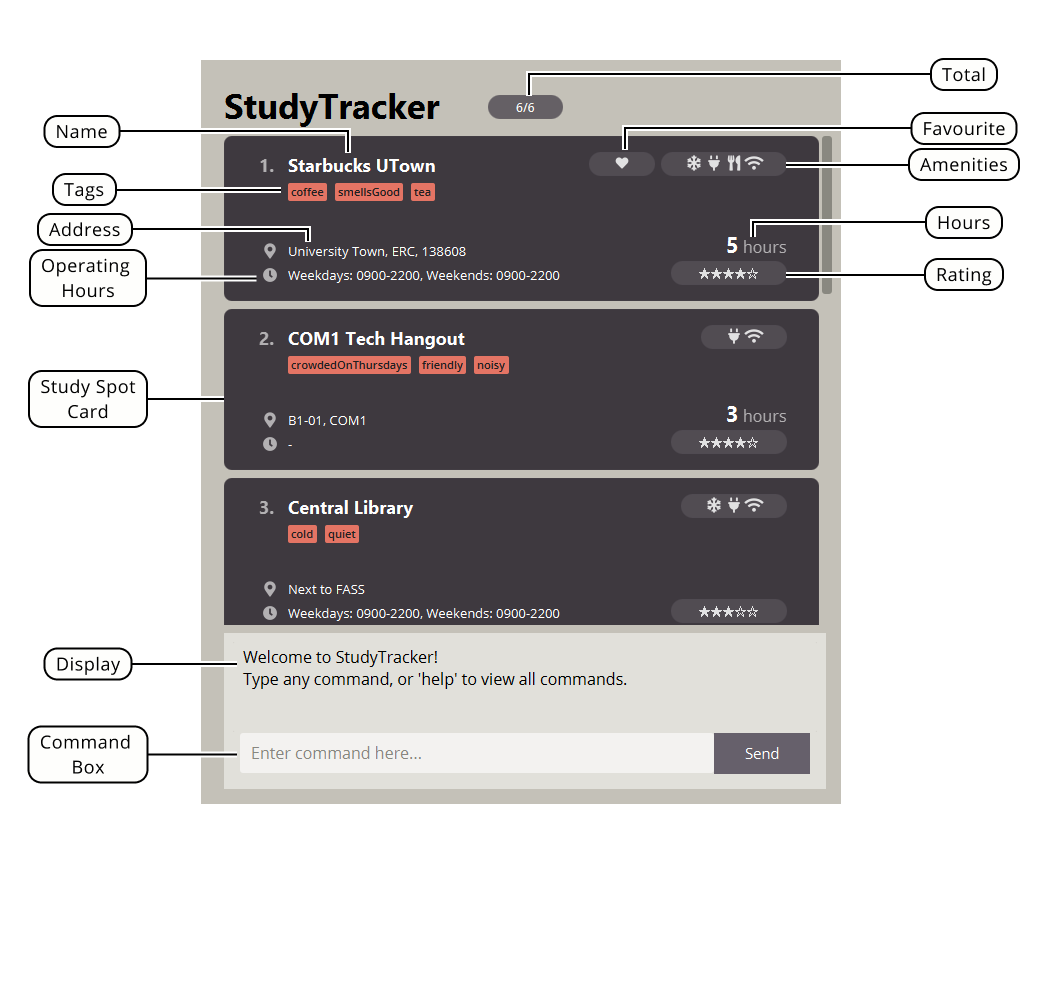
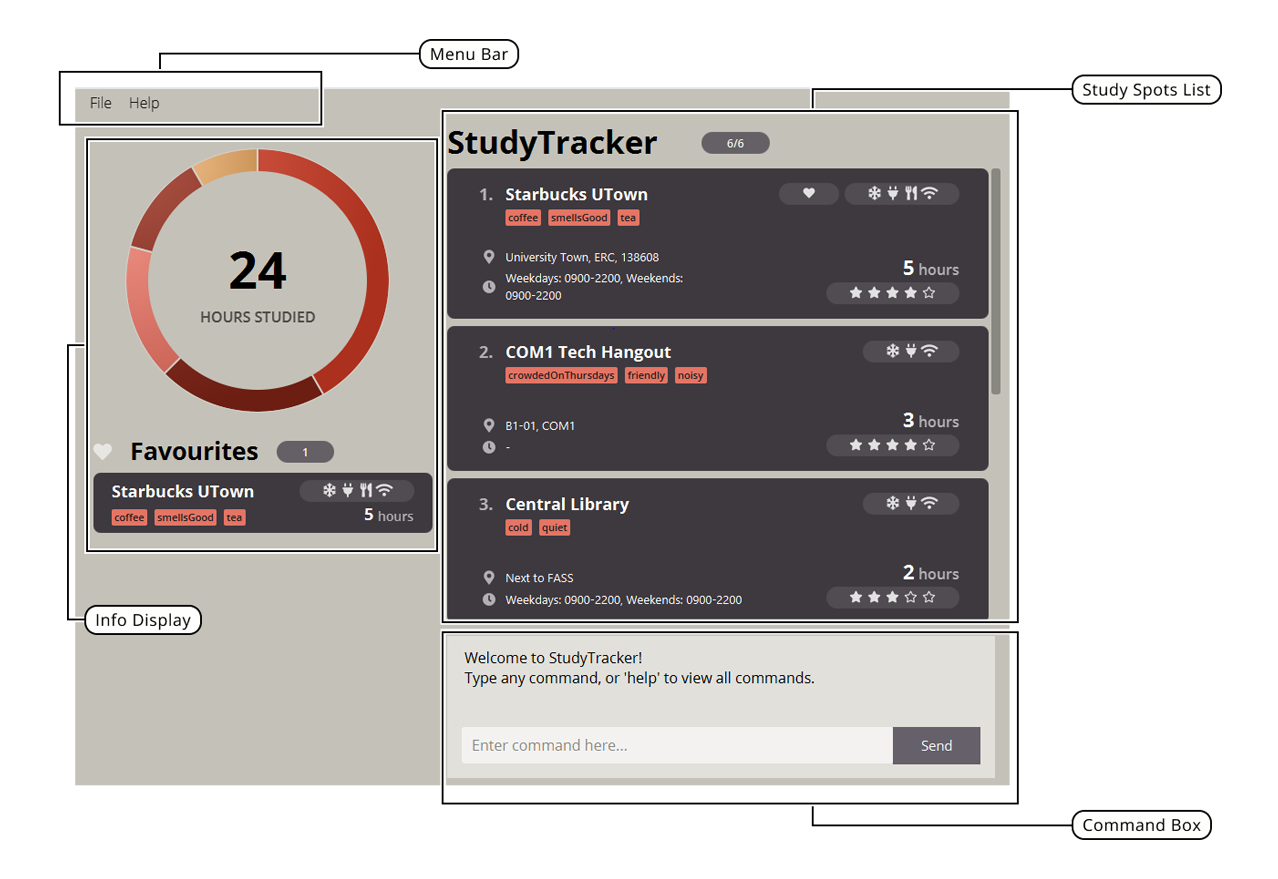
Update pictures to match latest features

diff --git a/docs/UserGuide.md b/docs/UserGuide.md
@@ -12,7 +12,7 @@ We aim to **maximise students' productivity** by **making it easy to find the be
 
 Overview of main features:
 - **Make informed decisions** of where to study —  every study spot includes details about amenities like sockets, aircon, and crowd level, and more!
-- **Data-driven statistics** to **track time spent studying** ensures that you know where to go to be productive
+- **Data-driven statistics** to **track time spent studying** ensures you know where to go to be productive
 - Made a mistake? Found out something new? **Editing details is quick and simple!**
 - **Powerful customization** with user-defined aliases and custom themes!
 - **Built for cross-platform use** with JavaFX. Bring your StudyTracker data with you to any Windows, Mac, or Linux device!
@@ -48,7 +48,8 @@ Let's explore how we **add a new study spot** and **track our study time** with 
 1. Copy the file to the folder you want to use as the _home folder_ for your StudyTracker.
 
 1. Double-click the file to start the app. The GUI similar to the one below should appear in a few seconds. Note how the app contains some sample data.<br>
-   ![Ui](images/Ui.png)
+
+    <img src="images/Ui.png" alt="Default Ui" width="550"/>
 
 1. Type the command in the command box and press Enter to execute it. e.g. typing **`help`** and pressing Enter will open the help window.<br>
 
@@ -57,13 +58,14 @@ Let's explore how we **add a new study spot** and **track our study time** with 
    1. **`list`** : Lists all study spots.
     Study spots are shown in cards on the right panel of the program.
 
-   1. **`add`** `n/COM1 r/5 m/aircon` : **Adds a study location** named `COM1`, with a rating of 5 and 'aircon' amenity to the StudyTracker.
-    You'll see it if you scroll down the list of study locations!
+   1. **`add`** `n/FASS Benches r/5 m/aircon` : **Adds a study location** named `FASS Benches`, with a rating of 5 and 'aircon' amenity to the StudyTracker.
+   You'll see it if you scroll down the list of study locations!
 
-   1. **`log`** `n/COM1 h/3` : **Logs 3 hours of study time** at `COM1`.
-    The card will update with the new study hours. 
+   1. **`log`** `n/FASS Benches hr/3` : **Logs 3 hours of study time** at `FASS Benches`.
+    The card will update with the new study hours. Notice how the pie chart on the left of the GUI updates with the hours spent!
+    Try hovering over the pie chart to find your newly-added study spot!
 
-   1. **`exit`** : Exits the app.
+   2. **`exit`** : Exits the app.
 
 1. Congratulations! You've just added a new study spot, and logged your study time!
 You're on the right track to productivity!
@@ -106,13 +108,9 @@ Here is how to read the command format:
 #### Command Structure
 Commands use a multipart structure that must be specified in this order:
 1. **Command word** which may be user-created aliases (detailed further in [Aliases](#setting-command-aliases--alias-unalias)). <br>
-2. **Parameters** and **Flags**
+2. **Parameters** and **Flags**. A command may have more than one flag and/or parameters.
 
 <img src="images/commandStructure.png" alt="commandStructure" height="300"/>
-
-```
- <COMMAND> [parameters and flags]
- ```
 
 #### Flags
 
@@ -170,7 +168,37 @@ This section introduces the Graphical User Interface (GUI) of StudyTracker.
 
 ![Gui annotated](images/GuiAnnotated.png)
 
-On the right side of the interface, you can find the **Study Spot List** and **Command Box**.
+The top of the interface contains the **Menu Bar**. Clicking on `File` or `Help` will open up the [Settings menu](#managing-themes) and the [Help window](#viewing-help--help).
+
+On the left side of the interface, you can find the [**Info Display**](#info-display).
+
+On the right side of the interface, you can find the [**Study Spot List**](#study-spot-list) and [**Command Box**](#study-spot-list).
+
+### Info Display
+
+The **Info Display** contains the **Pie Chart** and **Favourites List**.
+
+![Gui annotated](images/GuiInfoDisplayAnnotated.png)
+
+The **Hours Studied Pie Chart** displays statistics of time spent studying at the *top five most frequented* study spots.
+
+* Moving your cursor over any segment of the pie chart will show a `Study Spot Caption` with details of the corresponding study spot
+* `Total hours studied` will show the total number of hours studied over all study spots
+
+The **Favourites List** contains **Cards** representing all [**favourited**](#adding-a-study-spot-to-favourites-fav) study spots in StudyTracker.
+The `Total` tag at the top shows total number of favourited study spots in StudyTracker.
+
+* `Name` — name of study spot
+* `Tags` — user-defined tags for the study spot
+* `Amenities` — the icons represent the amenities present in study spot.
+From left to right, the amenities are **aircon, charger, food, wifi**.
+* `Hours studied` — total number of hours studied at study spot
+
+
+### Study Spot List
+
+
+![Gui annotated](images/GuiStudySpotListAnnotated.png)
 
 The **Study Spot List** contains **Cards** representing every study spot in StudyTracker.
 The `Total` tag at the top shows current visible study spots/total number of study spots in StudyTracker.
@@ -185,7 +213,7 @@ From left to right, the amenities are **aircon, charger, food, wifi**.
 * `Hours` — total number of hours studied at study spot
 * `Rating` — user-defined rating for the study spot
 
-The **Command Box** is where to enter commands in StudyTracker.
+The **Command Box** is where to enter [**commands**](#how-to-read-commands-in-studytracker) in StudyTracker.
 
 * `Command Box` — type in your commands here
 * `Display` — results of commands and error messages are shown here.
@@ -376,9 +404,9 @@ find library
 
 ### Logging study hours: `log`
 
-After studying at a certain StudySpot, you can log how many hours you have studied at this location. You can also reset
-the value to 0, or hard set it to the value of your choice by using the `-r` and `-o` flags respectively, as shown
-below .
+After studying at a certain StudySpot, you can log how many hours you have studied at this location.
+There are also various flags you can use to reset or override hours to the value of your choice by using the `-r` and `-o` flags respectively, as shown
+below:
 
 **Format:** `log n/NAME* hr/NUM_OF_HOURS*` to log additional hours at the study spot
 
@@ -386,12 +414,18 @@ below .
 
 **Format** `log -r n/NAME*` to reset the studied hours at the study spot to 0
 
-<img src="images/log_hours.png" alt="log hours" height="700"/>
+**Format** `log -r` to reset the studied hours at **all** study spots
 
 <div markdown="span" class="alert alert-primary">:information_source: **Note:**
-The flag `-o` stands for override, to override the studied hours with what is input
-The flag `-r` stands for reset, which resets the value to 0
+The flag `-o` stands for override, which overrides the studied hours with the provided value <br>
+The flag `-r` stands for reset, which resets the hours to 0
 </div>
+
+<figure>
+<img src="images/log_hours.png" alt="log hours" height="500"/>
+  <figcaption>Logging 5 hours to 'Starbucks UTown' with the command `log n/starbucks utown hr/2` would update the study spot card, and also the pie chart on the info display panel of the GUI. </figcaption>
+</figure>
+
 
 **Example:**
 ```
@@ -403,6 +437,9 @@ Changed hours to 5 at Starbucks!
 
 log -r n/Starbucks
 Reset hours at Starbucks!
+
+log -r
+Reset hours for all study spots!
 ```
 
 ### Setting Command Aliases
@@ -428,17 +465,17 @@ You can chain aliases to make more powerful commands! <br> <br>
 **Example:** <br>
 
 ```
-alias al/Rate5 cmd/edit r/5 spot/
+alias al/LogCLB cmd/log n/Central Library hr/
 ```
 <br>
 ```
-Added alias Rate5: [edit r/5 spot/]
+Added alias LogCLB: [log n/Central Library hr/]
 ```
 <br>
-will set alias `Rate5` to expand to the command `edit r/5 spot/`.
+will set alias `LogCLB` to expand to the command `log n/Central Library hr/`.
 <br><br>
 
-Running `Rate5 Bishan Library` would then result in `edit r/5 spot/Bishan Library`!
+Running `LogCLB 3` would then result in `log n/Central Library hr/3`, allowing you to log a variable number of study hours to 'Central Library'!
 </div>
 
 #### Removing command aliases: `unalias`
